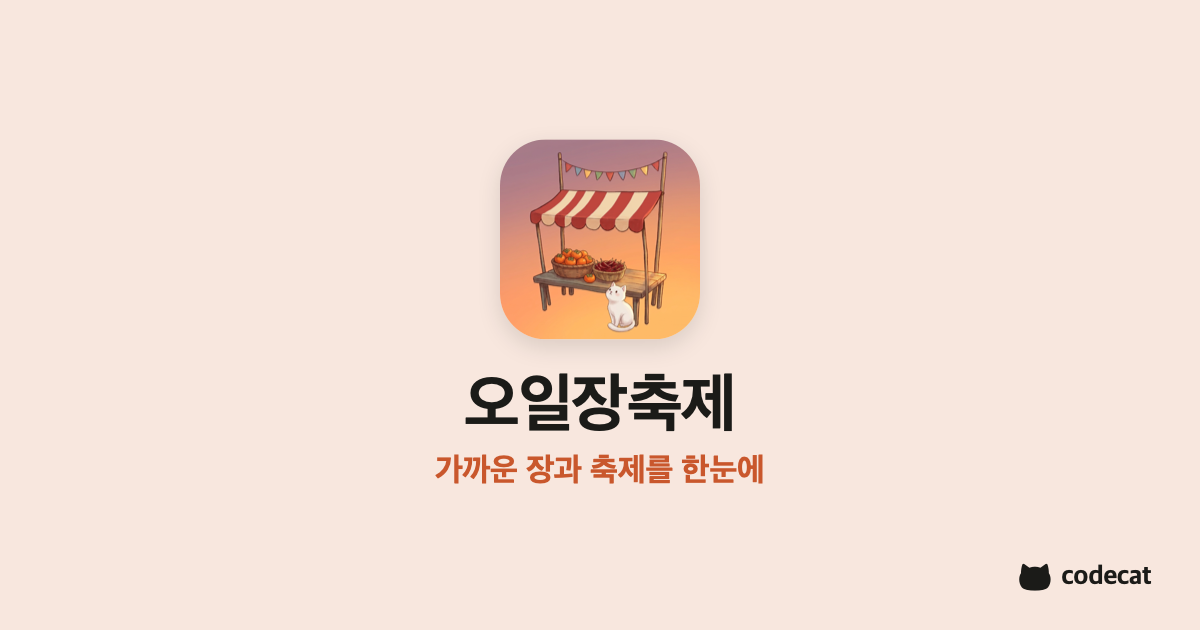
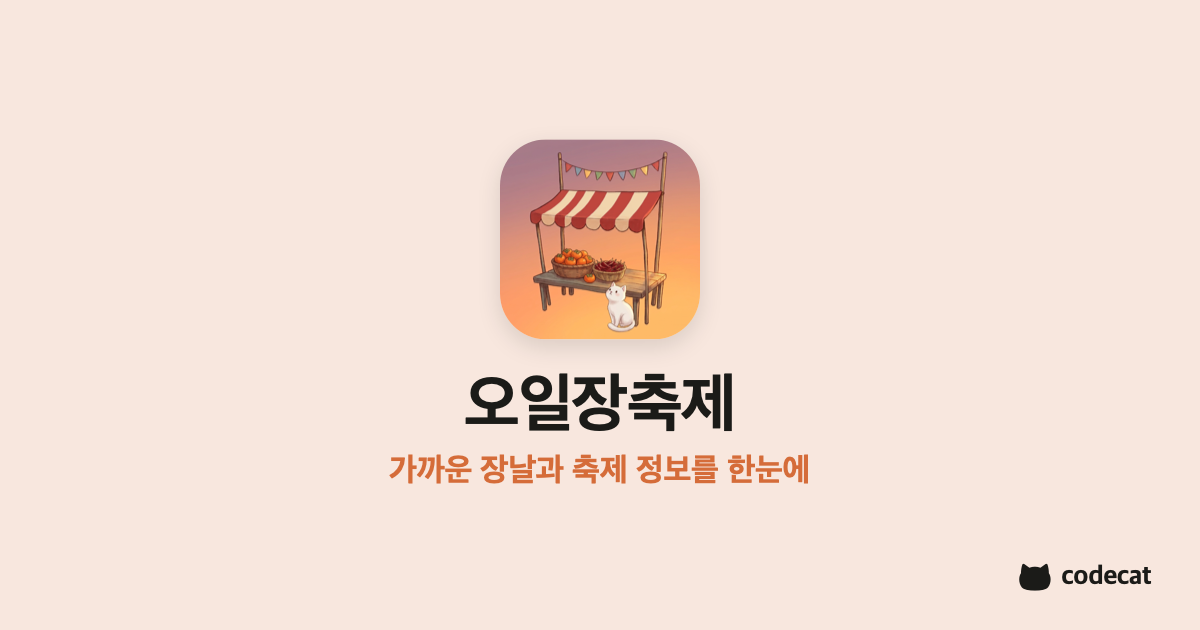
fix(site): sigol share line per his final words

Changed region(s): [[0.3083, 0.7238, 0.6783, 0.7841]]

diff --git a/sigol-jangteo/s/index.html b/sigol-jangteo/s/index.html
@@ -1,9 +1,9 @@
 <!doctype html>
 <html lang="ko"><head><meta charset="utf-8"><meta name="viewport" content="width=device-width,initial-scale=1">
-<title>오일장축제 · 가까운 장과 축제를 한눈에</title>
-<meta name="description" content="가까운 장과 축제를 한눈에">
+<title>오일장축제 · 가까운 장날과 축제 정보를 한눈에</title>
+<meta name="description" content="가까운 장날과 축제 정보를 한눈에">
 <meta name="robots" content="noindex"><meta name="referrer" content="no-referrer">
-<meta property="og:type" content="website"><meta property="og:title" content="오일장축제"><meta property="og:description" content="가까운 장과 축제를 한눈에">
+<meta property="og:type" content="website"><meta property="og:title" content="오일장축제"><meta property="og:description" content="가까운 장날과 축제 정보를 한눈에">
 <meta property="og:image" content="https://codecat.co.kr/sigol-jangteo/s/og.png"><meta property="og:image:width" content="1200"><meta property="og:image:height" content="630">
 <meta name="twitter:card" content="summary_large_image"><meta name="color-scheme" content="light dark">
 <link rel="icon" href="icon.png"><link rel="apple-touch-icon" href="icon.png">
@@ -37,7 +37,7 @@ body{margin:0;background:var(--bg);color:var(--ink);font-family:-apple-system,"A
 <div class="w">
 <div class="brand"><svg viewBox="220 -52 800 800" aria-hidden="true"><path d="M292 258C290 200 305 110 322 60Q335 28 368 42L490 130Q620 80 750 130L872 42Q905 28 918 60C935 110 950 200 948 258C1000 330 1012 480 930 590C880 650 760 668 620 668C480 668 360 650 310 590C228 480 240 330 292 258Z"/></svg>codecat</div>
 <section class="item" id="item" hidden><div class="k" id="k"></div><h1 id="h"></h1><div class="d" id="d"></div><div class="s" id="s"></div><div class="f" id="f"></div></section>
-<div class="appline"><img src="icon.png" alt="" width="54" height="54"><div><b>오일장축제</b><span>가까운 장과 축제를 한눈에</span></div></div>
+<div class="appline"><img src="icon.png" alt="" width="54" height="54"><div><b>오일장축제</b><span>가까운 장날과 축제 정보를 한눈에</span></div></div>
 <div class="badges" id="badges"></div>
 <div class="note" id="note"></div>
 
